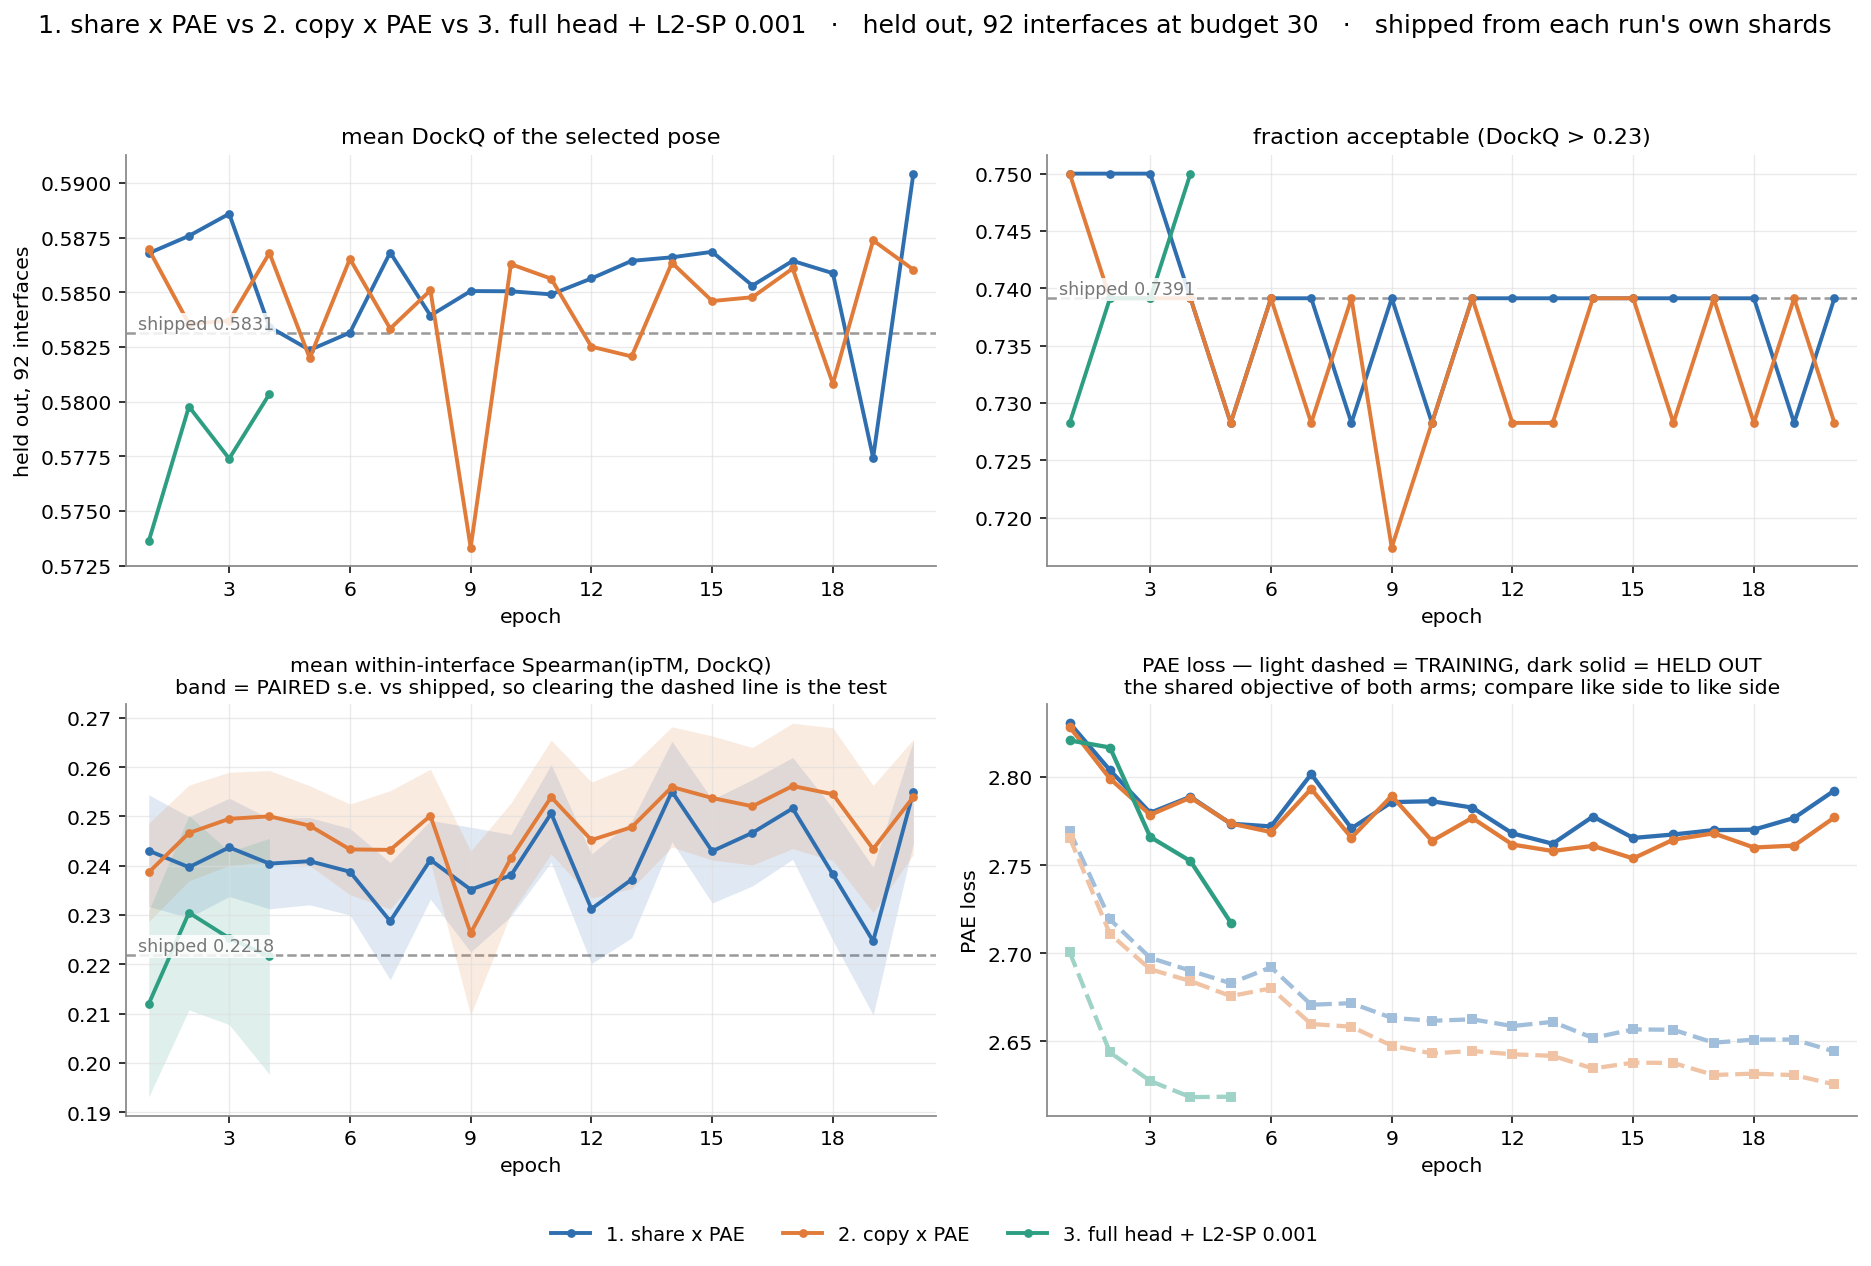
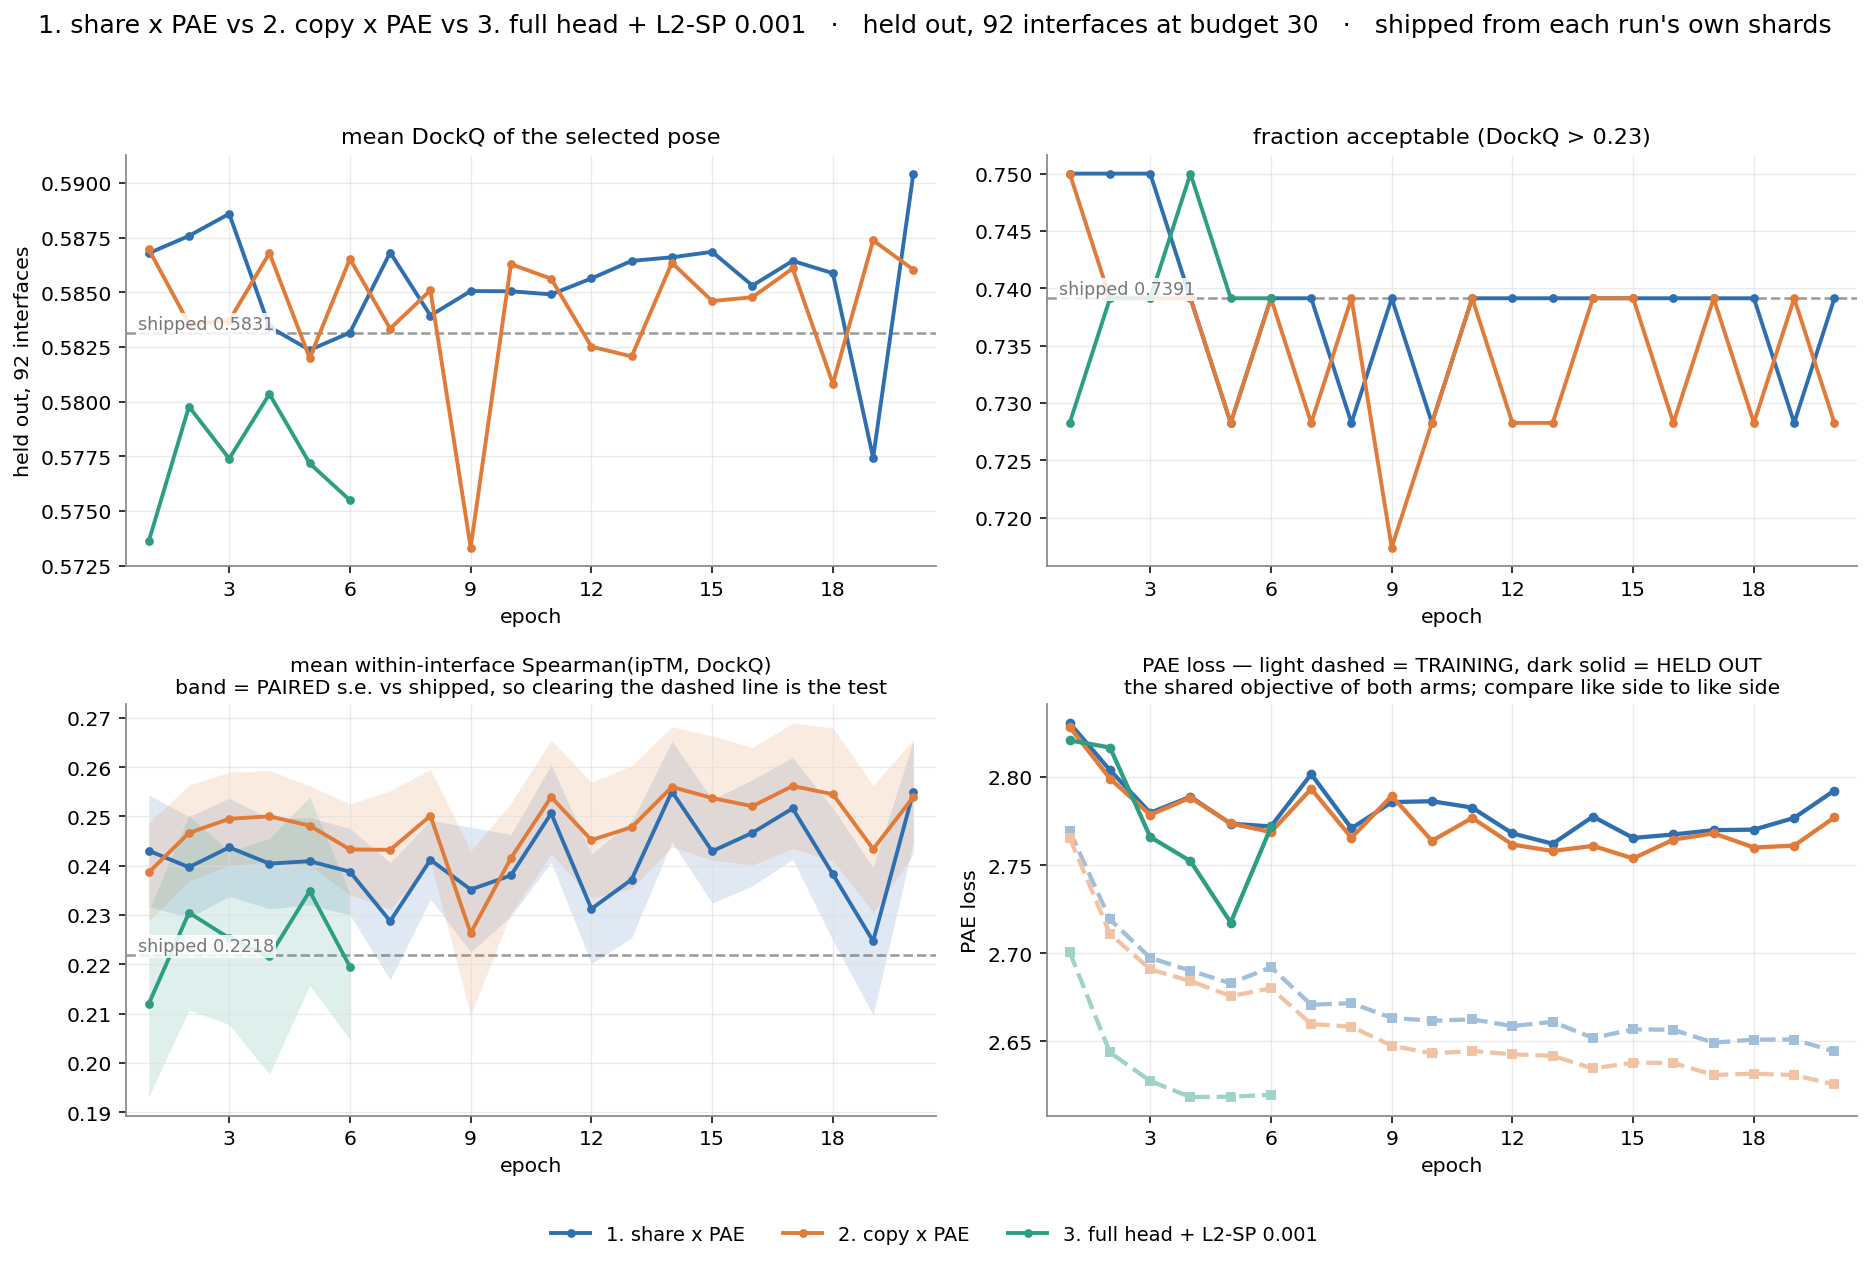
tv6hue epoch 6: val PAE 2.7715 (up from 2.7174), DockQ 0.5755, all 3 held-out shards clean
The child diagnostics are live in production and confirm the reviewer's premise directly: every
shard logs cpus=0-71,144-215, which is node 0's CPU list inherited from rank 0, while driving a
GPU on node 1. Real, visible, and still not sufficient to cause the failure -- the probe went
36/36 under exactly that policy.

Model build was 37.97 s here against 67.60 s in the standalone test. That spread is itself the
argument against the 2 s stagger: the time to reach CUDA init varies by half a minute between
runs, so a two-second launch offset decides nothing.

Claude-Session: https://claude.ai/code/session_014t55QPNWnMkjqFi95YVBtG

Changed region(s): [[0.124, 0.6161, 0.186, 0.8318], [0.651, 0.2156, 0.682, 0.2464], [0.155, 0.3389, 0.186, 0.3697]]

diff --git a/extra_training/EXPERIMENTS.md b/extra_training/EXPERIMENTS.md
@@ -36,7 +36,7 @@ Oracle ceiling: DockQ 0.6926, frac 0.8587 → **headroom 0.1096**.
 
 ![arms overlay](figures/arms_overlay.png)
 
-*Regenerated 2026-10-26 9:44 PM EDT. Every number below comes from each run's own train_eval shards and rank_rho cache; shipped is recomputed from the same rows via `stored_iptm`.*
+*Regenerated 2026-10-26 10:21 PM EDT. Every number below comes from each run's own train_eval shards and rank_rho cache; shipped is recomputed from the same rows via `stored_iptm`.*
 
 Shipped on `valfull` (92 interfaces, budget 30): DockQ **0.5830**, frac **0.7391**, rho **0.2218**.
 
@@ -44,11 +44,11 @@ Shipped on `valfull` (92 interfaces, budget 30): DockQ **0.5830**, frac **0.7391
 |---|---|---|---|---|---|---|---|---|
 | 1 | `ip8ga4` | 1..20 | 0.5904 | 0.7391 | 0.2550 | +0.0074 ± 0.0040 | 2.6443 | 2.7923 |
 | 2 | `dntxmn` | 1..20 | 0.5860 | 0.7283 | 0.2540 | +0.0030 ± 0.0032 | 2.6256 | 2.7770 |
-| 3 | `tv6hue` | 1..4 | 0.5803 | 0.7500 | 0.2216 | -0.0027 ± 0.0053 | 2.6187 | 2.7174 |
+| 3 | `tv6hue` | 1..6 | 0.5755 | 0.7391 | 0.2195 | -0.0076 ± 0.0045 | 2.6197 | 2.7715 |
 
 - **1. share x PAE** (`ip8ga4`, 20 epochs): paired ΔDockQ mean **+0.0023**; rho 0.2550 (best 0.2551) vs shipped 0.2218; train PAE 2.7693 → 2.6443; val PAE 2.8305 → 2.7923, min 2.7621 at epoch 13.
 - **2. copy x PAE** (`dntxmn`, 20 epochs): paired ΔDockQ mean **+0.0011**; rho 0.2540 (best 0.2562) vs shipped 0.2218; train PAE 2.7654 → 2.6256; val PAE 2.8283 → 2.7770, min 2.7538 at epoch 15.
-- **3. full head + L2-SP 0.001** (`tv6hue`, 4 epochs): paired ΔDockQ mean **-0.0053**; rho 0.2216 (best 0.2305) vs shipped 0.2218; train PAE 2.7005 → 2.6187; val PAE 2.8207 → 2.7174, min 2.7174 at epoch 5.
+- **3. full head + L2-SP 0.001** (`tv6hue`, 6 epochs): paired ΔDockQ mean **-0.0058**; rho 0.2195 (best 0.2348) vs shipped 0.2218; train PAE 2.7005 → 2.6197; val PAE 2.8207 → 2.7715, min 2.7174 at epoch 5.
 
 <!-- AUTO:END -->
 
